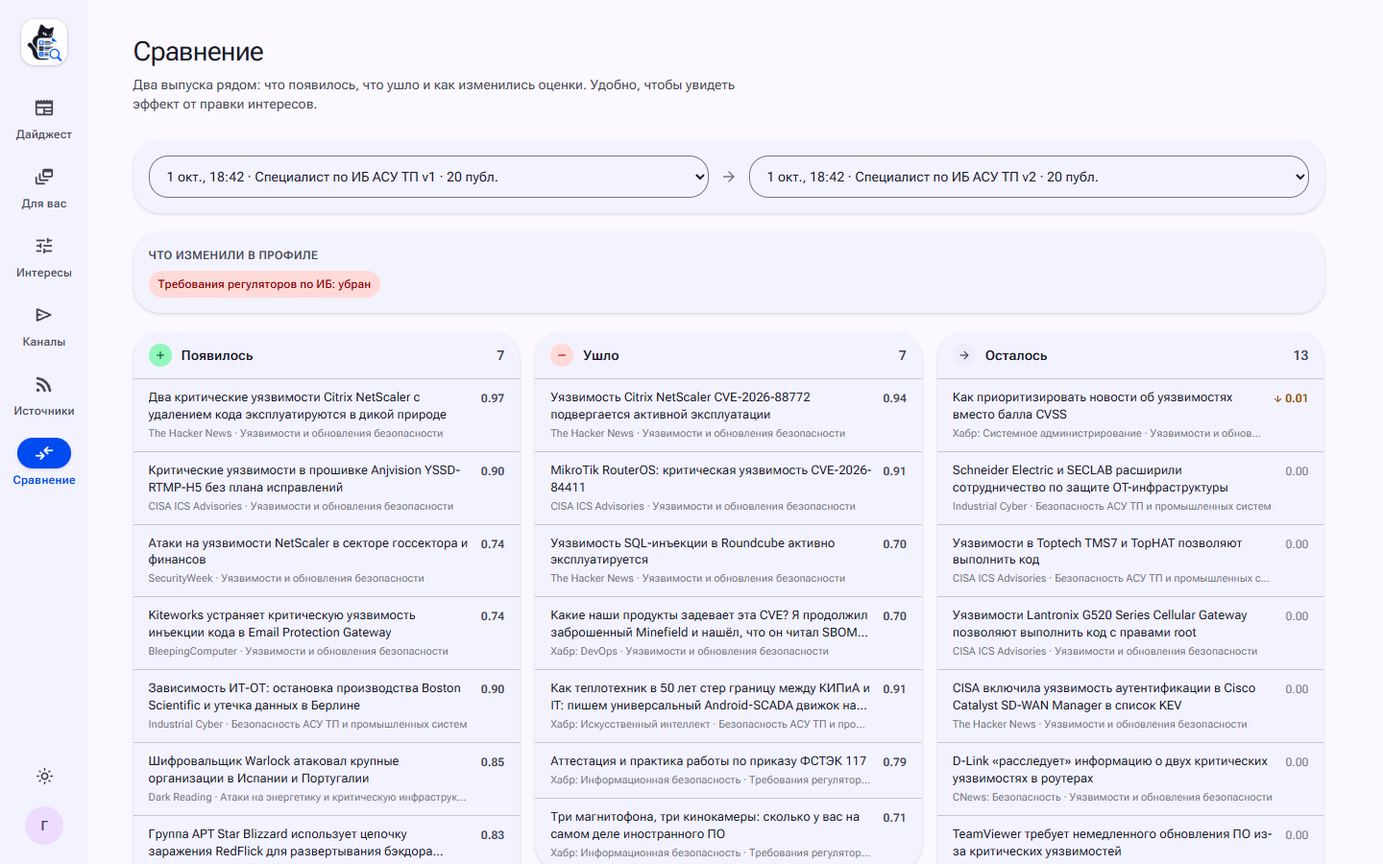
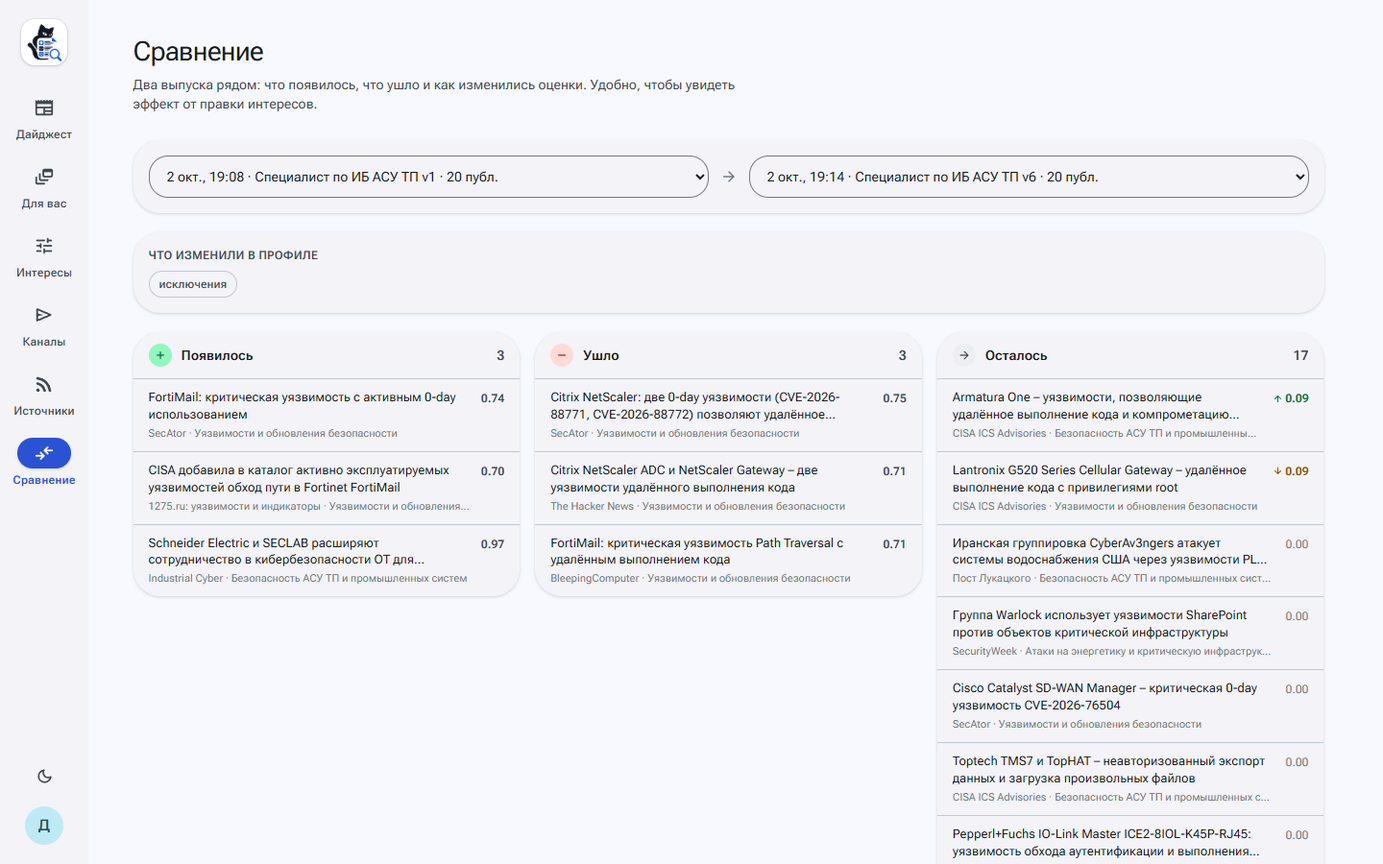
docs: the demo plan, a script that prepares the stand for it, fresh screenshots
docs/DEMO.md is the live demo in seven minutes, in the order of the task's
"result of the semifinal": sources, interests, the digest, the comparison,
then the repository. Each section is opened once; the only wait is the
build, about ten seconds, because scripts/demo_prep.py has put the answers
for the very edit made on stage in the cache beforehand and left the issue
before it as the latest, so «Сравнение» opens on the two.

The catalogue has 67 sources, 16 of them Telegram channels, not 65 and 14 as
the README, SUMMARY and DECISIONS said. New screenshots of the sources, the
interests with the exclusion typed in, the management issue and the
comparison.

diff --git a/scripts/demo_prep.py b/scripts/demo_prep.py
@@ -1,0 +1,173 @@
+# /// script
+# requires-python = ">=3.12"
+# dependencies = ["httpx"]
+# ///
+"""Prepare the account the demo is shown from (docs/DEMO.md, «Подготовка»).
+
+    uv run scripts/demo_prep.py --email demo@tailgrep.local --password '...' --fresh
+
+The account is registered if it does not exist and gets the four example
+profiles. Then three weekly digests are built on the model the stack runs:
+
+1. management, to open from the history during the demo;
+2. the ICS specialist as it is: the issue the demo compares against;
+3. the ICS specialist with the exclusion the demo adds by hand: built only to
+   put the model's answers in the cache, then deleted.
+
+During the demo the same exclusion is added in «Интересы», the issue builds
+from the cache in seconds, and «Сравнение» opens on the two ICS issues.
+Run it no earlier than an hour before the demo: the week moves on, and
+publications that entered it since have not been graded yet.
+"""
+
+import argparse
+import sys
+import time
+from typing import Any
+
+import httpx
+
+ICS = "Специалист по ИБ АСУ ТП"
+MANAGEMENT = "Руководство и сотрудники: кибербезопасность"
+EXCLUSION = "уязвимости продуктов Citrix"
+BUILD_TIMEOUT_SECONDS = 900
+# The API lets a reader create and delete ten digests a minute.
+LIMITED_ATTEMPTS = 12
+
+
+def options() -> argparse.Namespace:
+    parser = argparse.ArgumentParser(description=__doc__.splitlines()[0])
+    parser.add_argument("--base", default="http://localhost:8080")
+    parser.add_argument("--email", required=True)
+    parser.add_argument("--password", required=True)
+    parser.add_argument("--name", default="Демо")
+    parser.add_argument("--exclusion", default=EXCLUSION)
+    parser.add_argument("--fresh", action="store_true", help="delete the account's digests first")
+    return parser.parse_args()
+
+
+def sign_in(client: httpx.Client, api: str, args: argparse.Namespace) -> None:
+    credentials = {"email": args.email, "password": args.password}
+    response = client.post(f"{api}/auth/login", json=credentials)
+    if response.status_code == 401:
+        response = client.post(
+            f"{api}/auth/register", json={**credentials, "display_name": args.name}
+        )
+        if response.status_code == 409:
+            raise SystemExit(f"{args.email} exists and the password does not fit")
+        print(f"registered {args.email}")
+    response.raise_for_status()
+
+
+def limited(client: httpx.Client, method: str, url: str, **options: Any) -> httpx.Response:
+    """A request under the API's rate limit: a 429 waits as long as it says."""
+    for _ in range(LIMITED_ATTEMPTS):
+        response = client.request(method, url, **options)
+        if response.status_code != 429:
+            return response.raise_for_status()
+        time.sleep(float(response.headers.get("Retry-After", "10")))
+    raise SystemExit(f"{method} {url}: still rate limited")
+
+
+def add_examples(client: httpx.Client, api: str) -> dict[str, dict[str, Any]]:
+    """The example profiles a guest starts with, copied into this account."""
+    profiles = {p["spec"]["name"]: p for p in client.get(f"{api}/profiles").json()}
+    with httpx.Client(timeout=60) as guest:
+        guest.post(f"{api}/auth/demo").raise_for_status()
+        try:
+            for example in guest.get(f"{api}/profiles").raise_for_status().json():
+                name = example["spec"]["name"]
+                if name in profiles:
+                    continue
+                created = client.post(f"{api}/profiles", json=example["spec"])
+                created.raise_for_status()
+                look = {"icon": example["icon"], "color": example["color"]}
+                client.patch(
+                    f"{api}/profiles/{created.json()['id']}/look", json=look
+                ).raise_for_status()
+                profiles[name] = created.json()
+                print(f"added profile {name}")
+        finally:
+            guest.post(f"{api}/auth/me/delete", json={"password": ""})
+    return profiles
+
+
+def save(client: httpx.Client, api: str, profile_id: str, spec: dict[str, Any]) -> None:
+    client.put(f"{api}/profiles/{profile_id}", json=spec).raise_for_status()
+
+
+def build(client: httpx.Client, api: str, profile_id: str, label: str) -> dict[str, Any]:
+    started = time.monotonic()
+    body = {"profile_id": profile_id, "period_days": 7}
+    created = limited(client, "POST", f"{api}/digests", json=body)
+    deadline = started + BUILD_TIMEOUT_SECONDS
+    while time.monotonic() < deadline:
+        digest = client.get(f"{api}/digests/{created.json()['id']}").raise_for_status().json()
+        if digest["status"] == "done":
+            stats = digest["stats"]
+            print(
+                f"{label}: {stats.get('selected')} entries, "
+                f"{time.monotonic() - started:.0f} s, model {stats.get('llm')}",
+                flush=True,
+            )
+            if stats.get("degraded"):
+                print("  the model was unavailable for part of it: check the key and the model")
+            return dict(digest)
+        if digest["status"] == "failed":
+            raise SystemExit(f"{label} failed: {digest['error']}")
+        time.sleep(3)
+    raise SystemExit(f"{label} did not finish in {BUILD_TIMEOUT_SECONDS} s")
+
+
+def main() -> None:
+    args = options()
+    api = f"{args.base.rstrip('/')}/api/v1"
+    with httpx.Client(timeout=60) as client:
+        sign_in(client, api, args)
+        if args.fresh:
+            listed = client.get(f"{api}/digests", params={"limit": 100}).raise_for_status()
+            for digest in listed.json():
+                limited(client, "DELETE", f"{api}/digests/{digest['id']}")
+        profiles = add_examples(client, api)
+        if missing := {ICS, MANAGEMENT} - profiles.keys():
+            raise SystemExit(f"no example profile {', '.join(sorted(missing))} on this stack")
+        ics = profiles[ICS]
+        spec = {
+            **ics["spec"],
+            "exclusions": [e for e in ics["spec"]["exclusions"] if e != args.exclusion],
+        }
+        save(client, api, ics["id"], spec)
+
+        build(client, api, profiles[MANAGEMENT]["id"], "management")
+        before = build(client, api, ics["id"], "ICS as it is")
+
+        save(client, api, ics["id"], {**spec, "exclusions": [*spec["exclusions"], args.exclusion]})
+        after = None
+        try:
+            after = build(client, api, ics["id"], "ICS with the exclusion (for the cache)")
+            change = (
+                client.get(
+                    f"{api}/digests/compare", params={"base": before["id"], "other": after["id"]}
+                )
+                .raise_for_status()
+                .json()
+            )
+        finally:
+            # The demo starts from the profile as it is and its issue as the latest.
+            save(client, api, ics["id"], spec)
+            if after is not None:
+                limited(client, "DELETE", f"{api}/digests/{after['id']}")
+
+    print(f"\nIn the demo add the exclusion «{args.exclusion}» to «{ICS}».")
+    print(f"The issue will lose {len(change['removed'])} and gain {len(change['added'])}:")
+    for item in change["removed"]:
+        print(f"  - {item['headline']}")
+    for item in change["added"]:
+        print(f"  + {item['headline']}")
+    if not change["removed"]:
+        print("Nothing leaves: pick an exclusion that matches this week's issue (--exclusion).")
+        sys.exit(1)
+
+
+if __name__ == "__main__":
+    main()

diff --git a/README.md b/README.md
@@ -1,8 +1,8 @@
 # Tail&Grep: ИИ-ассистент дайджестов по ИТ и ИБ для энергетики
 
-Решение полуфинала хакатона «ИИ-ассистенты для энергетики» ([задание](docs/task/TASK.md)). Ассистент забирает публикации из 65 источников, отбирает те, что отвечают интересам конкретного читателя, группирует их и выдаёт дайджест в Markdown и DOCX со ссылками на источники в форматах датасета организаторов: специалисту атаки и уязвимости карточками с приоритетом, руководству сводки с признаками. Оценки и тексты пишет `gpt-oss:120b`, модель меняется в `.env`, включая модели Яндекса. Интересы редактируются в интерфейсе, и видно, как каждая правка меняет подборку.
+Решение полуфинала хакатона «ИИ-ассистенты для энергетики» ([задание](docs/task/TASK.md)). Ассистент забирает публикации из 67 источников, отбирает те, что отвечают интересам конкретного читателя, группирует их и выдаёт дайджест в Markdown и DOCX со ссылками на источники в форматах датасета организаторов: специалисту атаки и уязвимости карточками с приоритетом, руководству сводки с признаками. Оценки и тексты пишет `gpt-oss:120b`, модель меняется в `.env`, включая модели Яндекса. Интересы редактируются в интерфейсе, и видно, как каждая правка меняет подборку.
 
-Кратко о возможностях и ограничениях - [docs/SUMMARY.md](docs/SUMMARY.md), зачем это компании - [docs/BUSINESS.md](docs/BUSINESS.md).
+Кратко о возможностях и ограничениях - [docs/SUMMARY.md](docs/SUMMARY.md), зачем это компании - [docs/BUSINESS.md](docs/BUSINESS.md), план показа - [docs/DEMO.md](docs/DEMO.md).
 
 ## Где что посмотреть по заданию
 
@@ -12,7 +12,7 @@
 | Отбирать материалы по интересам | раздел «Интересы» с предпросмотром подборки; блок «Не вошло в выпуск» на странице выпуска |
 | Группировать по темам и сохранять ссылки | [examples/ics-security-engineer.md](examples/ics-security-engineer.md): разделы «Атаки» и «Уязвимости» и темы, у каждой записи ссылка и пересказы |
 | Дайджест в Markdown или DOCX | [examples/](examples/README.md): четыре выпуска в обоих форматах |
-| Модели из задания, замена без переработки | `gpt-oss:120b` по умолчанию; блоки для Yandex AI Studio, vLLM и локальной модели в `.env.example`; DECISIONS, «Замена модели без переработки» |
+| Модели из задания, замена без переработки | `gpt-oss:120b` по умолчанию; [examples/models](examples/models/README.md): тот же выпуск на пяти моделях и без модели; блоки для Yandex AI Studio, vLLM и локальной модели в `.env.example`; DECISIONS, «Замена модели без переработки» |
 | Применение инструментов | инструмент модели `lookup_vulnerability`: CISA KEV и БДУ ФСТЭК; DECISIONS, «Инструмент модели» |
 | Проверка результатов | карточки и тексты сверяются со статьёй, убранное видно в записи; DECISIONS, «Формат выпуска по датасету организаторов» |
 | Исходные материалы, результат отбора, изменение подборки | [data/samples](data/samples/articles.jsonl), [examples/](examples/README.md), [три сценария смены интересов](examples/change) |
@@ -31,6 +31,10 @@
 
 ![Выпуск специалисту по ИБ АСУ ТП: атаки и уязвимости по приоритету датасета, карточка уязвимости со справкой CISA KEV](docs/screenshots/digest-topics.png)
 
+| Источники | Выпуск руководству |
+|---|---|
+| ![67 источников с аватарками, числом публикаций всего и за сутки](docs/screenshots/sources.png) | ![Сводка без жаргона с признаками датасета и обезвреженными ссылками из поста](docs/screenshots/digest-management.png) |
+
 ## Быстрый запуск
 
 Нужен Docker с Compose v2. Порт `8080` должен быть свободен (меняется переменной `WEB_PORT`).
@@ -41,7 +45,7 @@ docker compose up -d --build
 
 Откройте <http://localhost:8080> и нажмите «Войти без регистрации»: появится временный аккаунт с четырьмя примерами профилей, он удалится через сутки. Можно и зарегистрироваться, тогда следующим шагом будет загрузка резюме.
 
-При первом старте стек сам применит миграции, заведёт 65 источников и четыре примера профилей, загрузит снимок из 1728 реальных публикаций за 23 сентября - 2 октября 2026 года и поставит в очередь опрос лент. Дайджест можно собирать сразу, не дожидаясь опроса.
+При первом старте стек сам применит миграции, заведёт 67 источников и четыре примера профилей, загрузит снимок из 1728 реальных публикаций за 23 сентября - 2 октября 2026 года и поставит в очередь опрос лент. Дайджест можно собирать сразу, не дожидаясь опроса.
 
 События пишутся в ClickHouse, он входит в стек и получает до 1 ГБ памяти (`CLICKHOUSE_MEMORY`). Пустое значение `RADAR_CLICKHOUSE_URL=` в `.env` выключает события, остальное работает как раньше. Пароль ClickHouse, как и пароль PostgreSQL, на сервере стоит задать своим: `CLICKHOUSE_PASSWORD`.
 
@@ -118,7 +122,9 @@ uv run scripts/smoke.py            # или: uv run scripts/smoke.py http://host
 
 ## Что показать на демонстрации
 
-1. Нажмите «Войти без регистрации». Откройте «Источники»: 65 источников по пяти категориям (безопасность, АСУ ТП, ИТ, энергетика, регуляторы), статус последнего опроса и счётчики. Среди регуляторов есть БДУ ФСТЭК: уязвимости, которые используют в атаках, и самые опасные за неделю. Среди безопасности - трендовые уязвимости Positive Technologies. Поле над списком ищет источник по названию, адресу или имени канала: «@true_secator», «t.me», «бду». Переключатели под ним делят список по темам или на сайты и Telegram-каналы и ставят вперёд источники, которые принесли больше или меньше новостей. На вкладке «Публикации» лежат исходные материалы. Поиск сначала показывает статьи со словами запроса, а под чертой «Похоже по смыслу» - статьи о том же другими словами. Заголовок открывает статью прямо в приложении.
+План живого показа на 7 минут, с подготовкой стенда и текстом к каждому шагу, лежит в [docs/DEMO.md](docs/DEMO.md). Ниже все возможности по шагам, чтобы пройти их самому.
+
+1. Нажмите «Войти без регистрации». Откройте «Источники»: 67 источников по пяти категориям (безопасность, АСУ ТП, ИТ, энергетика, регуляторы), статус последнего опроса и счётчики. Среди регуляторов есть БДУ ФСТЭК: уязвимости, которые используют в атаках, и самые опасные за неделю. Среди безопасности - трендовые уязвимости Positive Technologies. Поле над списком ищет источник по названию, адресу или имени канала: «@true_secator», «t.me», «бду». Переключатели под ним делят список по темам или на сайты и Telegram-каналы и ставят вперёд источники, которые принесли больше или меньше новостей. На вкладке «Публикации» лежат исходные материалы. Поиск сначала показывает статьи со словами запроса, а под чертой «Похоже по смыслу» - статьи о том же другими словами. Заголовок открывает статью прямо в приложении.
 2. В разделе «Дайджест» выберите профиль и период и нажмите «Собрать выпуск». Прогресс идёт по этапам в реальном времени. В шапке готового выпуска видна воронка: сколько публикаций было за период, сколько стало кандидатами, сколько вошло.
 3. Выпуск разбит на темы. Заголовок записи открывает статью в приложении: полный текст с картинками, списками, кодом и таблицами, как на странице издания, а значок рядом ведёт на сайт источника. У каждой записи есть выжимка, строка «почему важно» под роль читателя и ссылки на пересказы той же новости в других изданиях. Внизу блок «Не вошло в выпуск»: отброшенные кандидаты с оценкой и причиной.
 4. Кнопки «Markdown» и «DOCX» в шапке выпуска скачивают дайджест.
@@ -174,7 +180,7 @@ uv run scripts/smoke.py            # или: uv run scripts/smoke.py http://host
 
 | Требование | Как сделано |
 |---|---|
-| Получать публикации из источников | 50 лент RSS и Atom, 14 Telegram-каналов и страница трендовых уязвимостей PT; источники для специалистов и руководства взяты в том числе из списков датасета организаторов (покрытие в DECISIONS.md); опрос каждые 15 минут с условными запросами, загрузка полного текста там, где в ленте только анонс, добавление своих источников из интерфейса, публичные Telegram-каналы |
+| Получать публикации из источников | 50 лент RSS и Atom, 16 Telegram-каналов и страница трендовых уязвимостей PT; источники для специалистов и руководства взяты в том числе из списков датасета организаторов (покрытие в DECISIONS.md); опрос каждые 15 минут с условными запросами, загрузка полного текста там, где в ленте только анонс, добавление своих источников из интерфейса, публичные Telegram-каналы |
 | Отбирать по интересам пользователя | гибридный поиск (векторный и полнотекстовый) по каждому интересу, оценка каждого кандидата языковой моделью, исключения, порог, склейка пересказов, поправка по оценкам читателя |
 | Группировать по темам, сохранять ссылки | по датасету организаторов ([docs/task](docs/task/TASK.md)): специалисту разделы «Атаки» и «Уязвимости» с приоритетом по правилам датасета и карточкой с его полями, остальное по темам; руководству темы и признаки из датасета (в РФ, ущерб, утечка, энергетика и другие). Темы - кластеризация по векторам, названия и обзоры от модели. Ссылка на источник у каждой записи и у каждого пересказа |
 | Формировать дайджест в Markdown или DOCX | оба формата, с гиперссылками; карточки атак и уязвимостей в порядке полей «желаемого вывода» датасета |
@@ -319,7 +325,7 @@ docker compose up -d --scale api=4 --scale worker-ingest=2 --scale worker-digest
 - `examples/` - результаты на `gpt-oss:120b`: выпуски для четырёх профилей в Markdown и DOCX, два в формате для специалиста и два для руководства.
 - `examples/change/` - три сценария смены интересов: убран интерес, добавлено исключение, поднят порог. У каждой пришедшей и ушедшей статьи названа причина.
 - `examples/dataset/` - 21 пример датасета организаторов, прогнанный через решение, рядом с «желаемым выводом» из датасета.
-- `examples/resumes/` - четыре резюме выдуманных людей в разных форматах (PDF в две колонки, DOCX с таблицей, Markdown, скан PNG) и рядом с каждым `.result.json`: что из него извлечено и какой профиль предложен. Результаты получены в режиме с docling и `qwen3.5:9b`, пересобираются `scripts/resume_examples.py`.
+- `examples/resumes/` - четыре резюме выдуманных людей в разных форматах (PDF в две колонки, DOCX с таблицей, Markdown, скан PNG) и рядом с каждым `.result.json`: что из него извлечено и какой профиль предложен. Результаты получены в режиме с docling и `gpt-oss:120b`, пересобираются `scripts/resume_examples.py`.
 - `docs/eval/` - оценки модели по всем публикациям недели для двух профилей, таблицы сравнения способов поиска и качества ленты.
 
 Снимок содержит фрагменты публикаций из открытых лент и приложен для проверки решения. Права на тексты принадлежат изданиям, ссылки на оригиналы сохранены.

diff --git a/docs/DEMO.md b/docs/DEMO.md
@@ -1,0 +1,103 @@
+# Демонстрация
+
+План живого показа на 7 минут. Порядок идёт за данными, как в «Результате полуфинала» [задания](task/TASK.md): исходные материалы, отбор по интересам, выпуск, изменение подборки после правки интересов. Потом репозиторий: что сдано, замена модели, цифры. Модули сверх задания идут последними и только если осталось время.
+
+Каждый раздел интерфейса открывается один раз, к пройденному не возвращаемся. Ждать приходится только сборку выпуска, около 10 секунд, и это время занимает рассказ об этапах сборки.
+
+| # | Где | Время | Что из задания закрывает |
+|---|---|---|---|
+| 1 | Источники | 0:45 | получать публикации из выбранных источников; показать исходные материалы |
+| 2 | Интересы | 1:15 | отбирать по интересам; изменение подборки при изменении интересов |
+| 3 | Дайджест | 2:45 | группировать по темам и сохранять ссылки; Markdown и DOCX; результат отбора; инструменты и проверка результатов |
+| 4 | Сравнение | 0:40 | изменение подборки при изменении интересов |
+| 5 | Репозиторий | 1:00 | код и инструкция запуска, примеры входа и выхода, возможности и ограничения, замена модели |
+| 6 | Модули сверх задания | остаток | бизнес-ориентированность |
+
+## Подготовка
+
+Готовить не раньше чем за час до показа. Выпуск собирается за последнюю неделю: чем дольше ждать, тем больше в неё попадёт публикаций, которых модель ещё не оценивала.
+
+1. Стек запущен с моделью. В `.env`:
+
+   ```
+   RADAR_EMBEDDING_PROVIDER=ollama
+   RADAR_LLM_PROVIDER=ollama
+   RADAR_LLM_MODEL=gpt-oss:120b
+   RADAR_LLM_BASE_URL=https://ollama.com
+   RADAR_LLM_REASONING=low
+   RADAR_LLM_CONCURRENCY=4
+   RADAR_LLM_API_KEY=<ключ с ollama.com/settings/keys>
+   ```
+
+2. Аккаунт для показа готовит скрипт, около 6 минут:
+
+   ```bash
+   uv run scripts/demo_prep.py --email <почта> --password <пароль> --fresh
+   ```
+
+   Он заводит аккаунт с четырьмя примерами профилей и собирает три выпуска за неделю: для руководства, для специалиста по ИБ АСУ ТП как есть и для него же с исключением, которое на показе добавим руками. Последний выпуск нужен только для того, чтобы ответы модели легли в кеш, и скрипт его удаляет. В конце скрипт печатает, какие записи уйдут из выпуска и какие придут. Если не уходит ничего, значит, на этой неделе нет уязвимостей Citrix: выберите производителя из раздела «Уязвимости» последнего выпуска и запустите скрипт ещё раз с `--exclusion "уязвимости продуктов <производитель>"`.
+
+3. В браузере войти этим аккаунтом и открыть раздел «Источники». Светлая тема. Ширина окна от 1280 CSS-пикселей, иначе история выпусков уедет под выпуск. Во второй вкладке открыть README в GitLab на таблице «Где что посмотреть по заданию».
+
+4. Скопировать в буфер обмена текст исключения ровно так, как его передали скрипту: `уязвимости продуктов Citrix`. С другой буквой это будет другой профиль, и выпуск будет собираться полторы минуты вместо десяти секунд.
+
+5. Запустить Word или LibreOffice, чтобы DOCX открылся сразу.
+
+## 1. Источники, 0:45
+
+| Делаем | Говорим |
+|---|---|
+| Раздел «Источники» уже открыт | 67 источников: 50 лент RSS и Atom, 16 открытых Telegram-каналов и страница трендовых уязвимостей Positive Technologies. Из списков датасета читаем 17 из 24 сайтов для специалистов, 15 из 18 каналов и 10 из 20 сайтов для руководства; у остальных нет ленты или они закрыты от ботов, разбор в DECISIONS. У каждого источника видно, сколько публикаций всего и за сутки. Опрос идёт каждые 15 минут. |
+| Вкладка «Публикации», в поиске `уязвимость SCADA` | Здесь всё, что ассистент прочитал, поэтому исходные материалы любого выпуска можно проверить. Поиск идёт по словам и по смыслу: пометка «по смыслу» стоит у статей, где слов запроса нет. Если лента отдаёт только анонс, полный текст забирается со страницы. |
+
+## 2. Интересы, 1:15
+
+| Делаем | Говорим |
+|---|---|
+| Раздел «Интересы», профиль «Специалист по ИБ АСУ ТП» | Профиль описывает читателя: кто он, интересы с ключевыми словами и важностью, что не показывать, порог релевантности и размер выпуска. |
+| Показать «Формат выпуска» | Два формата из датасета. Специалисту атаки и уязвимости идут карточками с приоритетом, руководству короткие сводки с признаками. |
+| В «Не показывать» вставить исключение из буфера, Enter | Меняем интересы: у компании нет Citrix. Предпросмотр справа сразу показывает, что выпадет из подборки и что займёт освободившиеся места, у каждой статьи причина. Предпросмотр работает без модели, на поиске, поэтому отвечает мгновенно. |
+| «Сохранить и собрать» | Профиль сохранён, переходим к сборке. |
+
+## 3. Дайджест, 2:45
+
+| Делаем | Говорим |
+|---|---|
+| Профиль уже выбран, период «Неделя», «Собрать выпуск» | Этапы идут на экране. Поиск по смыслу и по словам по каждому интересу, 60 лучших кандидатов оценивает модель, повторы одной новости склеиваются, записи группируются, модель пишет карточки и тексты, проверка сверяет их со статьёй. Сборка устроена как граф LangGraph с чекпоинтами: если воркер упадёт, сборка продолжится с прерванного шага. Ответы модели кешируются, поэтому повторная сборка занимает секунды, а не полторы минуты. |
+| Шапка выпуска | Воронка: сколько публикаций вышло за неделю, сколько стали кандидатами, сколько вошло. «Главное» пишет модель, числа в нём сверены со статьями. В нижней строке написано, какая модель оценивала и писала. |
+| Раздел «Атаки» | Порядок задаёт правило датасета: атака на энергетику и промышленность РФ выше атаки на другие отрасли РФ, атака за рубежом ниже всех. Причина приоритета появляется при наведении на чип. В карточке страна жертвы, группировка, отрасли, первоначальный доступ, инструменты, индикаторы. |
+| Раздел «Уязвимости», первая запись | Карточка: продукт, версии, обновление, временные меры, эксплойт, CVSS. Строка «Сверено по базам» появилась так: пока модель писала карточку, она вызвала инструмент `lookup_vulnerability`, и тот ответил по каталогу CISA KEV и БДУ ФСТЭК. Номера, о которых модель не спросила, граф проверяет сам. Уязвимость из KEV получает высокий приоритет. Чего нет в тексте статьи, в карточку не попадает: это строка «Нет в тексте» и пометка «убрано проверкой». |
+| Прокрутить темы | Остальное разбито на темы, их названия даёт модель. У каждой записи есть «Почему важно» для этого читателя и ссылка на первоисточник, а в «Также об этом» лежат пересказы той же новости в других источниках. |
+| Раскрыть «Не вошло в выпуск» | Результат отбора целиком: каждый кандидат с оценкой и причиной. Записи про Citrix помечены как исключённые. |
+| Наверх, «DOCX», открыть файл | Тот же выпуск в Word: гиперссылки на источники, карточки, в конце раздел «Как составлен выпуск»: сколько было публикаций, какие модели работали, что поправила проверка. Markdown скачивается соседней кнопкой. |
+| Закрыть Word. В «Истории» открыть выпуск «Руководство и сотрудники: кибербезопасность» | Второй формат датасета: без карточек и жаргона, у каждой записи признаки «В РФ», «Ущерб», «Утечка», «Энергетика» и другие из двенадцати в датасете. |
+
+## 4. Сравнение, 0:40
+
+| Делаем | Говорим |
+|---|---|
+| Раздел «Сравнение» | Раздел сам открывается на двух последних выпусках специалиста, до правки и после. Сверху написано, что изменили в профиле: исключения. В «Ушло» записи про Citrix, в «Появилось» то, что заняло их места, в «Осталось» общие записи с изменением оценки. Это и есть изменение подборки при изменении интересов, которое требует задание. |
+
+## 5. Репозиторий, 1:00
+
+| Делаем | Говорим |
+|---|---|
+| Вторая вкладка, README, таблица «Где что посмотреть по заданию» | Здесь каждое требование задания и место, где его проверить. Стек поднимается одной командой `docker compose up -d --build`, стенд открывается кнопкой «Войти без регистрации». |
+| `examples/models` | Замена модели. Тот же выпуск за неделю примеров собран на пяти моделях и без модели, меняли только переменные в `.env`. Разделы, карточки, приоритеты и проверка работают на всех. `gemma4:31b` совпала с основной моделью в 17 записях из 20, а два прогона самой `gpt-oss:120b` совпадают в 18. Локальная `qwen3.5:9b` для закрытого контура собирает выпуск на видеокарте 8 ГБ за 165 секунд. |
+| `examples/dataset` | Все 21 пример датасета прогнаны через решение и стоят рядом с «желаемым выводом»: тип записи совпал в 6 из 6, приоритет в 4 из 6, признаков для руководства найдено 22 из 32. |
+| `docs/BUSINESS.md` | Для кого решение, как внедрить в закрытом контуре, сколько обращений к модели уходит на выпуск, план пилота. |
+
+## 6. Если осталось время
+
+Разделы идут в порядке меню, в каждом одно действие:
+
+- «Для вас»: персональная лента между выпусками, у каждой статьи причина, по которой она здесь;
+- «Аккаунт»: «Создать ключ» в блоке MCP, и ИИ-ассистент читателя видит его ленту, выпуски и интересы.
+
+Короткое видео по выпуску и публикация в Telegram-каналы требуют подготовки, их показывает README, шаги 7 и 9.
+
+## Если что-то пошло не так
+
+- Сборка идёт дольше 20 секунд. Скорее всего, исключение вставлено не тем текстом, что в подготовке, или подготовка была давно. Продолжаем рассказывать об этапах: с моделью выпуск соберётся примерно за полторы минуты.
+- Модель недоступна. Выпуск соберётся в автономном режиме, в шапке появится плашка «Модель была недоступна часть времени». Это и есть устойчивость: показываем плашку и идём дальше.
+- В «Сравнении» не те выпуски. В списках «Было» и «Стало» выберите два выпуска «Специалист по ИБ АСУ ТП» с соседними версиями профиля.
